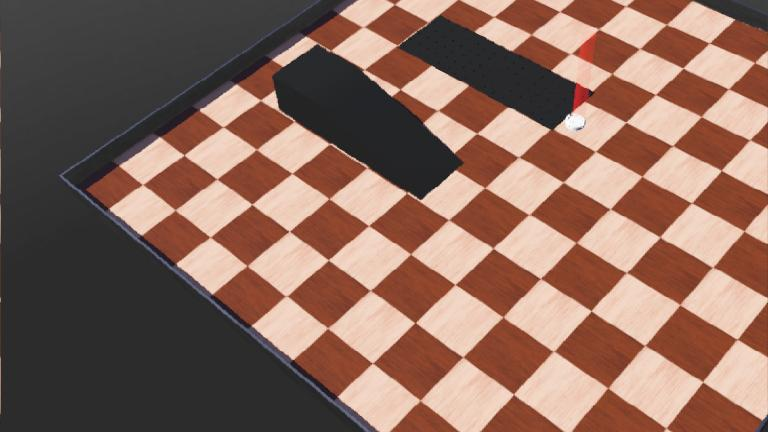
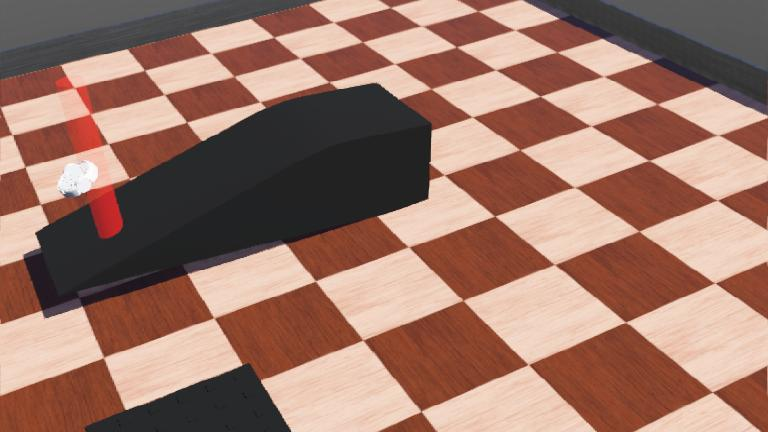
Ramp added angle and first data for downhill collected

diff --git a/Simulation - Copy/controllers/autonomous_navigation/autonomous_navigation.py b/Simulation - Copy/controllers/autonomous_navigation/autonomous_navigation.py
@@ -20,8 +20,8 @@ GPS_NAME = "gps"
 IMU_NAME = "imu"
 DISPLAY_NAME = "display"
 FILENAME = "experiments/recorded_waypoints.yaml"
-LOGFILE = "SIM_log1_paperground_with_max0_3_min0_15.csv"
-STARTING_Z = 0.01
+LOGFILE = "SIM_log1_3points_downhill_with_max0_3_min0_2.csv"
+STARTING_Z = 0.3
 
 # Navigation control parameters
 HEADING_THRESHOLD = 5.0  # degrees - target reached if within this angle
@@ -33,7 +33,7 @@ MOTION_CAPTURE_RATE = 40
 
 MAX_VEL = 0.3
 CRUISING_SPEED = 0.3   
-MIN_LIN_SPEED = 0.15
+MIN_LIN_SPEED = 0.2
 
 MAX_ROT = 0.5
 DIST_KP = 0.9
